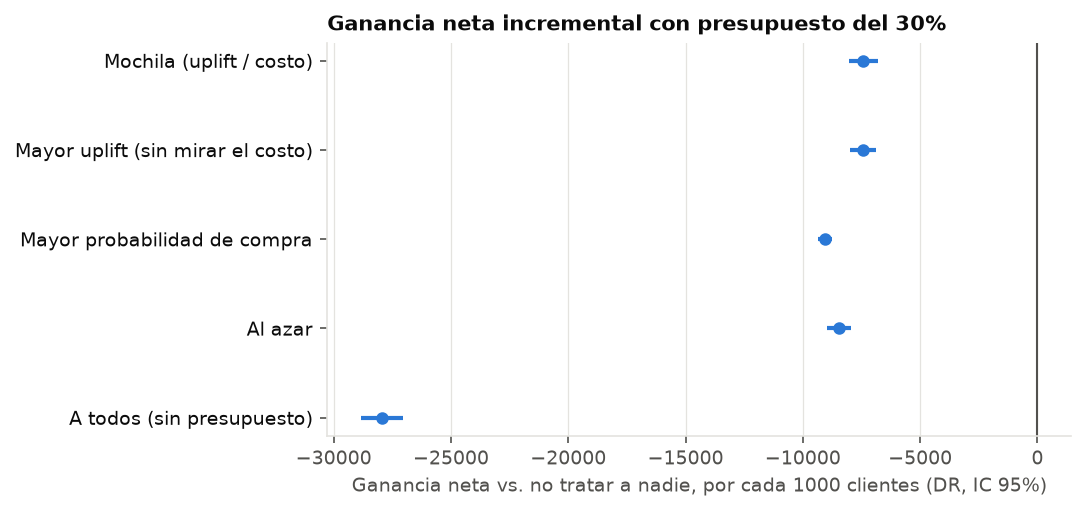
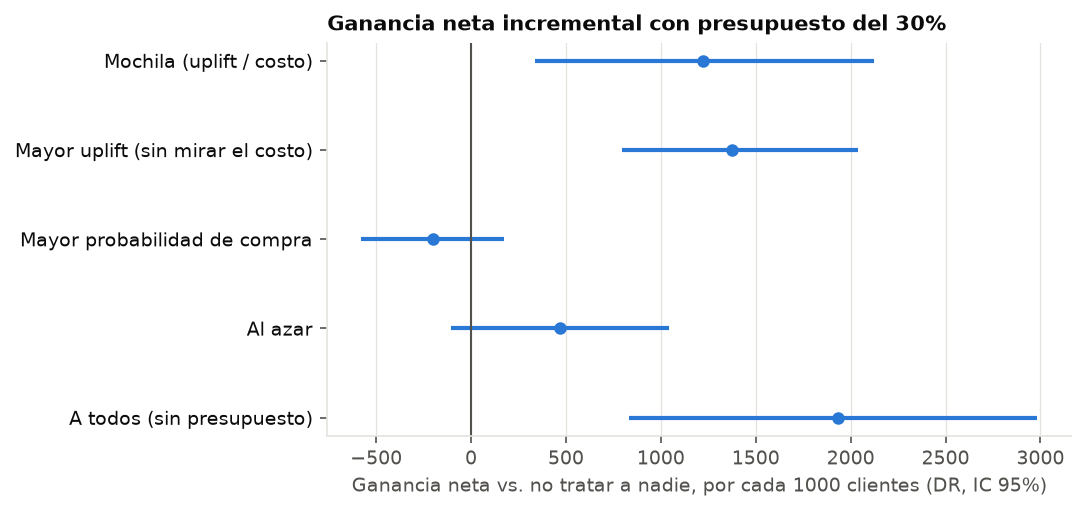
vuelvo a correr con policy updateado

diff --git a/results/etapa5/resumen.md b/results/etapa5/resumen.md
@@ -1,25 +1,25 @@
 # Etapa 5 — Política con presupuesto
 
 - Clientes de prueba: 60,457. Uplift de **X-learner** (elegido en la etapa 4); probabilidad sin incentivo del modelo de control del T-learner.
-- Supuestos: margen 25%, descuento 10% del ticket si el tratado compra, costo por contacto 1. Monto de la compra: ticket medio del cliente.
+- Supuestos: margen 25%, descuento 0% del ticket si el tratado compra, costo por contacto 1. Monto de la compra: ticket medio del cliente.
 - Valores en ganancia neta (margen − descuentos − contactos) por cada 1000 clientes, en la moneda de los tickets.
 
 ## Presupuesto del 30% del costo de tratar a todos
 
 | politica | tratados | dif_vs_referencia | dif_ic_inf | dif_ic_sup | gasto_esperado | gasto_dr |
 |---|---|---|---|---|---|---|
-| Mochila (uplift / costo) | 0.38 | -7422.18 | -8039.40 | -6797.08 | 9313.25 | 9317.89 |
-| Mayor uplift (sin mirar el costo) | 0.36 | -7440.16 | -7998.98 | -6864.43 | 9313.25 | 9332.43 |
-| Mayor probabilidad de compra | 0.24 | -9069.34 | -9343.62 | -8769.58 | 9313.24 | 9268.01 |
-| Al azar | 0.30 | -8453.78 | -8961.58 | -7926.79 | 9313.25 | 9224.30 |
-| A todos (sin presupuesto) | 1.00 | -27947.78 | -28832.02 | -27043.77 | 31044.18 | 30883.55 |
+| Mochila (uplift / costo) | 0.30 | 1223.67 | 336.94 | 2125.13 | 300.00 | 300.00 |
+| Mayor uplift (sin mirar el costo) | 0.30 | 1376.45 | 792.95 | 2037.82 | 300.00 | 300.00 |
+| Mayor probabilidad de compra | 0.30 | -200.69 | -579.44 | 172.32 | 300.00 | 300.00 |
+| Al azar | 0.30 | 465.99 | -104.16 | 1042.80 | 300.00 | 300.00 |
+| A todos (sin presupuesto) | 1.00 | 1935.77 | 834.58 | 2984.01 | 1000.00 | 1000.00 |
 | A nadie | 0.00 | 0.00 | 0.00 | 0.00 | 0.00 | 0.00 |
 
 - `dif_vs_referencia`: ganancia neta frente a no tratar a nadie, estimador doblemente robusto, IC 95% bootstrap pareado.
 - `gasto_esperado`: gasto que predice el modelo (con eso se arma la política); `gasto_dr`: gasto estimado con las compras observadas.
-- Precio sombra con este presupuesto: **0.15**: un peso más de presupuesto agrega 0.15 de ganancia incremental (menos de lo que cuesta: conviene achicar el presupuesto).
-- Greedy vs. solución entera exacta (milp, 2,000 clientes): el greedy queda a 0.004% del óptimo.
-- Errores estándar con la mochila: IPW 530.47, DR 402.23 por 1000 clientes.
+- Precio sombra con este presupuesto: **4.44**: un peso más de presupuesto agrega 4.44 de ganancia incremental.
+- Greedy vs. solución entera exacta (milp, 2,000 clientes): el greedy queda a 0.000% del óptimo.
+- Errores estándar con la mochila: IPW 598.91, DR 461.62 por 1000 clientes.
 
 ![Políticas](politicas.png)
 
@@ -27,9 +27,9 @@
 
 El presupuesto que maximiza la ganancia neta esperada trata mientras el precio sombra sea mayor que 1. Se elige con el modelo, sin mirar las compras de prueba.
 
-- Presupuesto óptimo: 0.2% del costo de tratar a todos (0.4% de los clientes)
-- Ganancia neta que predice el modelo: 10.80 por 1000 clientes
-- Ganancia neta estimada con las compras observadas (DR): 15.61 por 1000 clientes, IC 95% [-11.03, 44.77]
+- Presupuesto óptimo: 82.9% del costo de tratar a todos (82.9% de los clientes)
+- Ganancia neta que predice el modelo: 3215.33 por 1000 clientes
+- Ganancia neta estimada con las compras observadas (DR): 1715.70 por 1000 clientes, IC 95% [645.07, 2694.31]
 
 Si el modelo promete bastante más de lo que se observa, está exagerando el uplift de los clientes que elige (ver la pendiente de calibración de la etapa 4): la mochila elige justo a los clientes con el uplift más sobreestimado. Antes de usar la política conviene recalibrar el uplift o achicar el presupuesto.
 
@@ -41,12 +41,15 @@ Si el modelo promete bastante más de lo que se observa, está exagerando el upl
 
 | margen | descuento | tratados | presupuesto_optimo | ganancia_esperada | ganancia_dr | ic_inf | ic_sup |
 |---|---|---|---|---|---|---|---|
+| 0.150 | 0.000 | 0.691 | 0.691 | 1625.256 | 715.130 | 77.038 | 1304.400 |
 | 0.150 | 0.050 | 0.006 | 0.002 | 9.744 | 12.096 | -8.166 | 38.579 |
 | 0.150 | 0.100 | 0.000 | 0.000 | 0.020 | 0.392 | 0.000 | 1.075 |
 | 0.150 | 0.200 | 0.000 | 0.000 | 0.000 | 0.000 | 0.000 | 0.000 |
+| 0.250 | 0.000 | 0.829 | 0.829 | 3215.331 | 1715.698 | 695.234 | 2799.560 |
 | 0.250 | 0.050 | 0.036 | 0.021 | 103.461 | 75.772 | -82.326 | 298.324 |
 | 0.250 | 0.100 | 0.004 | 0.002 | 10.800 | 15.608 | -10.424 | 45.452 |
 | 0.250 | 0.200 | 0.000 | 0.000 | 0.000 | 0.000 | 0.000 | 0.000 |
+| 0.350 | 0.000 | 0.879 | 0.879 | 4843.491 | 2781.518 | 1312.378 | 4225.921 |
 | 0.350 | 0.050 | 0.091 | 0.059 | 380.974 | 441.223 | -3.256 | 945.805 |
 | 0.350 | 0.100 | 0.014 | 0.006 | 53.094 | 19.383 | -112.802 | 137.341 |
 | 0.350 | 0.200 | 0.001 | 0.000 | 2.289 | 4.784 | -8.774 | 17.828 |
@@ -57,6 +60,6 @@ El género no entra al modelo; esto controla que la política no lo discrimine d
 
 | genero | poblacion | tratados_mochila | razon |
 |---|---|---|---|
-| U | 0.464 | 0.488 | 1.052 |
+| U | 0.464 | 0.488 | 1.051 |
 | F | 0.368 | 0.357 | 0.970 |
-| M | 0.168 | 0.155 | 0.922 |
+| M | 0.168 | 0.155 | 0.924 |

diff --git a/results/etapa7/resumen.md b/results/etapa7/resumen.md
@@ -6,16 +6,16 @@
 
 - **Unidad:** cliente, asignado con un hash del `client_id` (estable entre corridas, como el control permanente de la etapa 6). Los clientes del control permanente quedan afuera.
 - **Grupos:** A aplica la mochila, B aplica *Mayor probabilidad de compra*, cada uno con un presupuesto proporcional a su tamaño. El control permanente mide, además, el efecto absoluto de cada política.
-- **Métrica principal:** ganancia neta por cliente en la ventana de la campaña (margen − descuentos − contactos), con supuestos: margen 25%, descuento 10%, contacto 1.
+- **Métrica principal:** ganancia neta por cliente en la ventana de la campaña (margen − descuentos − contactos), con supuestos: margen 25%, descuento 0%, contacto 1.
 - **Métricas de control:** gasto total contra presupuesto en cada grupo; tasa de compra; composición por género de los tratados.
 - **Análisis:** diferencia de medias con CUPED usando `gasto_total` previo a la campaña; un solo análisis al final del horizonte fijado (sin mirar antes); control de SRM antes de leer el resultado.
 
 ## Lo que dicen los datos del experimento
 
-- Ganancia por cliente bajo la mochila: media 64.37, desvío 80.28 (30,136 clientes de prueba compatibles)
-- Bajo *Mayor probabilidad de compra*: media 62.27, desvío 83.34 (30,263 clientes)
-- Diferencia estimada (DR): **1.65** por cliente, IC 95% [0.97, 2.32]
-- Correlación de la métrica con `gasto_total`: ρ ≈ 0.47, así que CUPED reduce la varianza un 22%
+- Ganancia por cliente bajo la mochila: media 73.04, desvío 90.54 (30,141 clientes de prueba compatibles)
+- Bajo *Mayor probabilidad de compra*: media 71.23, desvío 89.52 (30,299 clientes)
+- Diferencia estimada (DR): **1.42** por cliente, IC 95% [0.54, 2.32]
+- Correlación de la métrica con `gasto_total`: ρ ≈ 0.51, así que CUPED reduce la varianza un 26%
 
 ## Tamaño de muestra (α = 0.05, potencia 80%)
 
@@ -23,11 +23,11 @@ La última columna es la fracción de los 400,162 clientes cargados en la base q
 
 | efecto_supuesto | delta_por_cliente | clientes_por_grupo | con_cuped | fraccion_clientes_cargados_con_cuped |
 |---|---|---|---|---|
-| Estimado (DR, etapa 5) | 1.6472 | 38738 | 30128 | 0.1506 |
-| Extremo inferior del IC 95% | 0.9706 | 111568 | 86772 | 0.4337 |
-| Mitad del estimado | 0.8236 | 154950 | 120511 | 0.6023 |
+| Estimado (DR, etapa 5) | 1.4244 | 62723 | 46332 | 0.2316 |
+| Extremo inferior del IC 95% | 0.5366 | 442003 | 326494 | 1.6318 |
+| Mitad del estimado | 0.7122 | 250892 | 185326 | 0.9263 |
 
-Con el efecto estimado hacen falta 38,738 clientes por grupo sin CUPED. El IC de la diferencia es ancho: planificar con el efecto puntual da un A/B con poca potencia si el efecto real está cerca del extremo inferior.
+Con el efecto estimado hacen falta 62,723 clientes por grupo sin CUPED. El IC de la diferencia es ancho: planificar con el efecto puntual da un A/B con poca potencia si el efecto real está cerca del extremo inferior. Hay supuestos de efecto para los que no alcanza toda la población (fracción > 1): habría que juntar varias campañas, aceptar menos potencia o un efecto mínimo mayor.
 
 ![Potencia](potencia.png)
 
